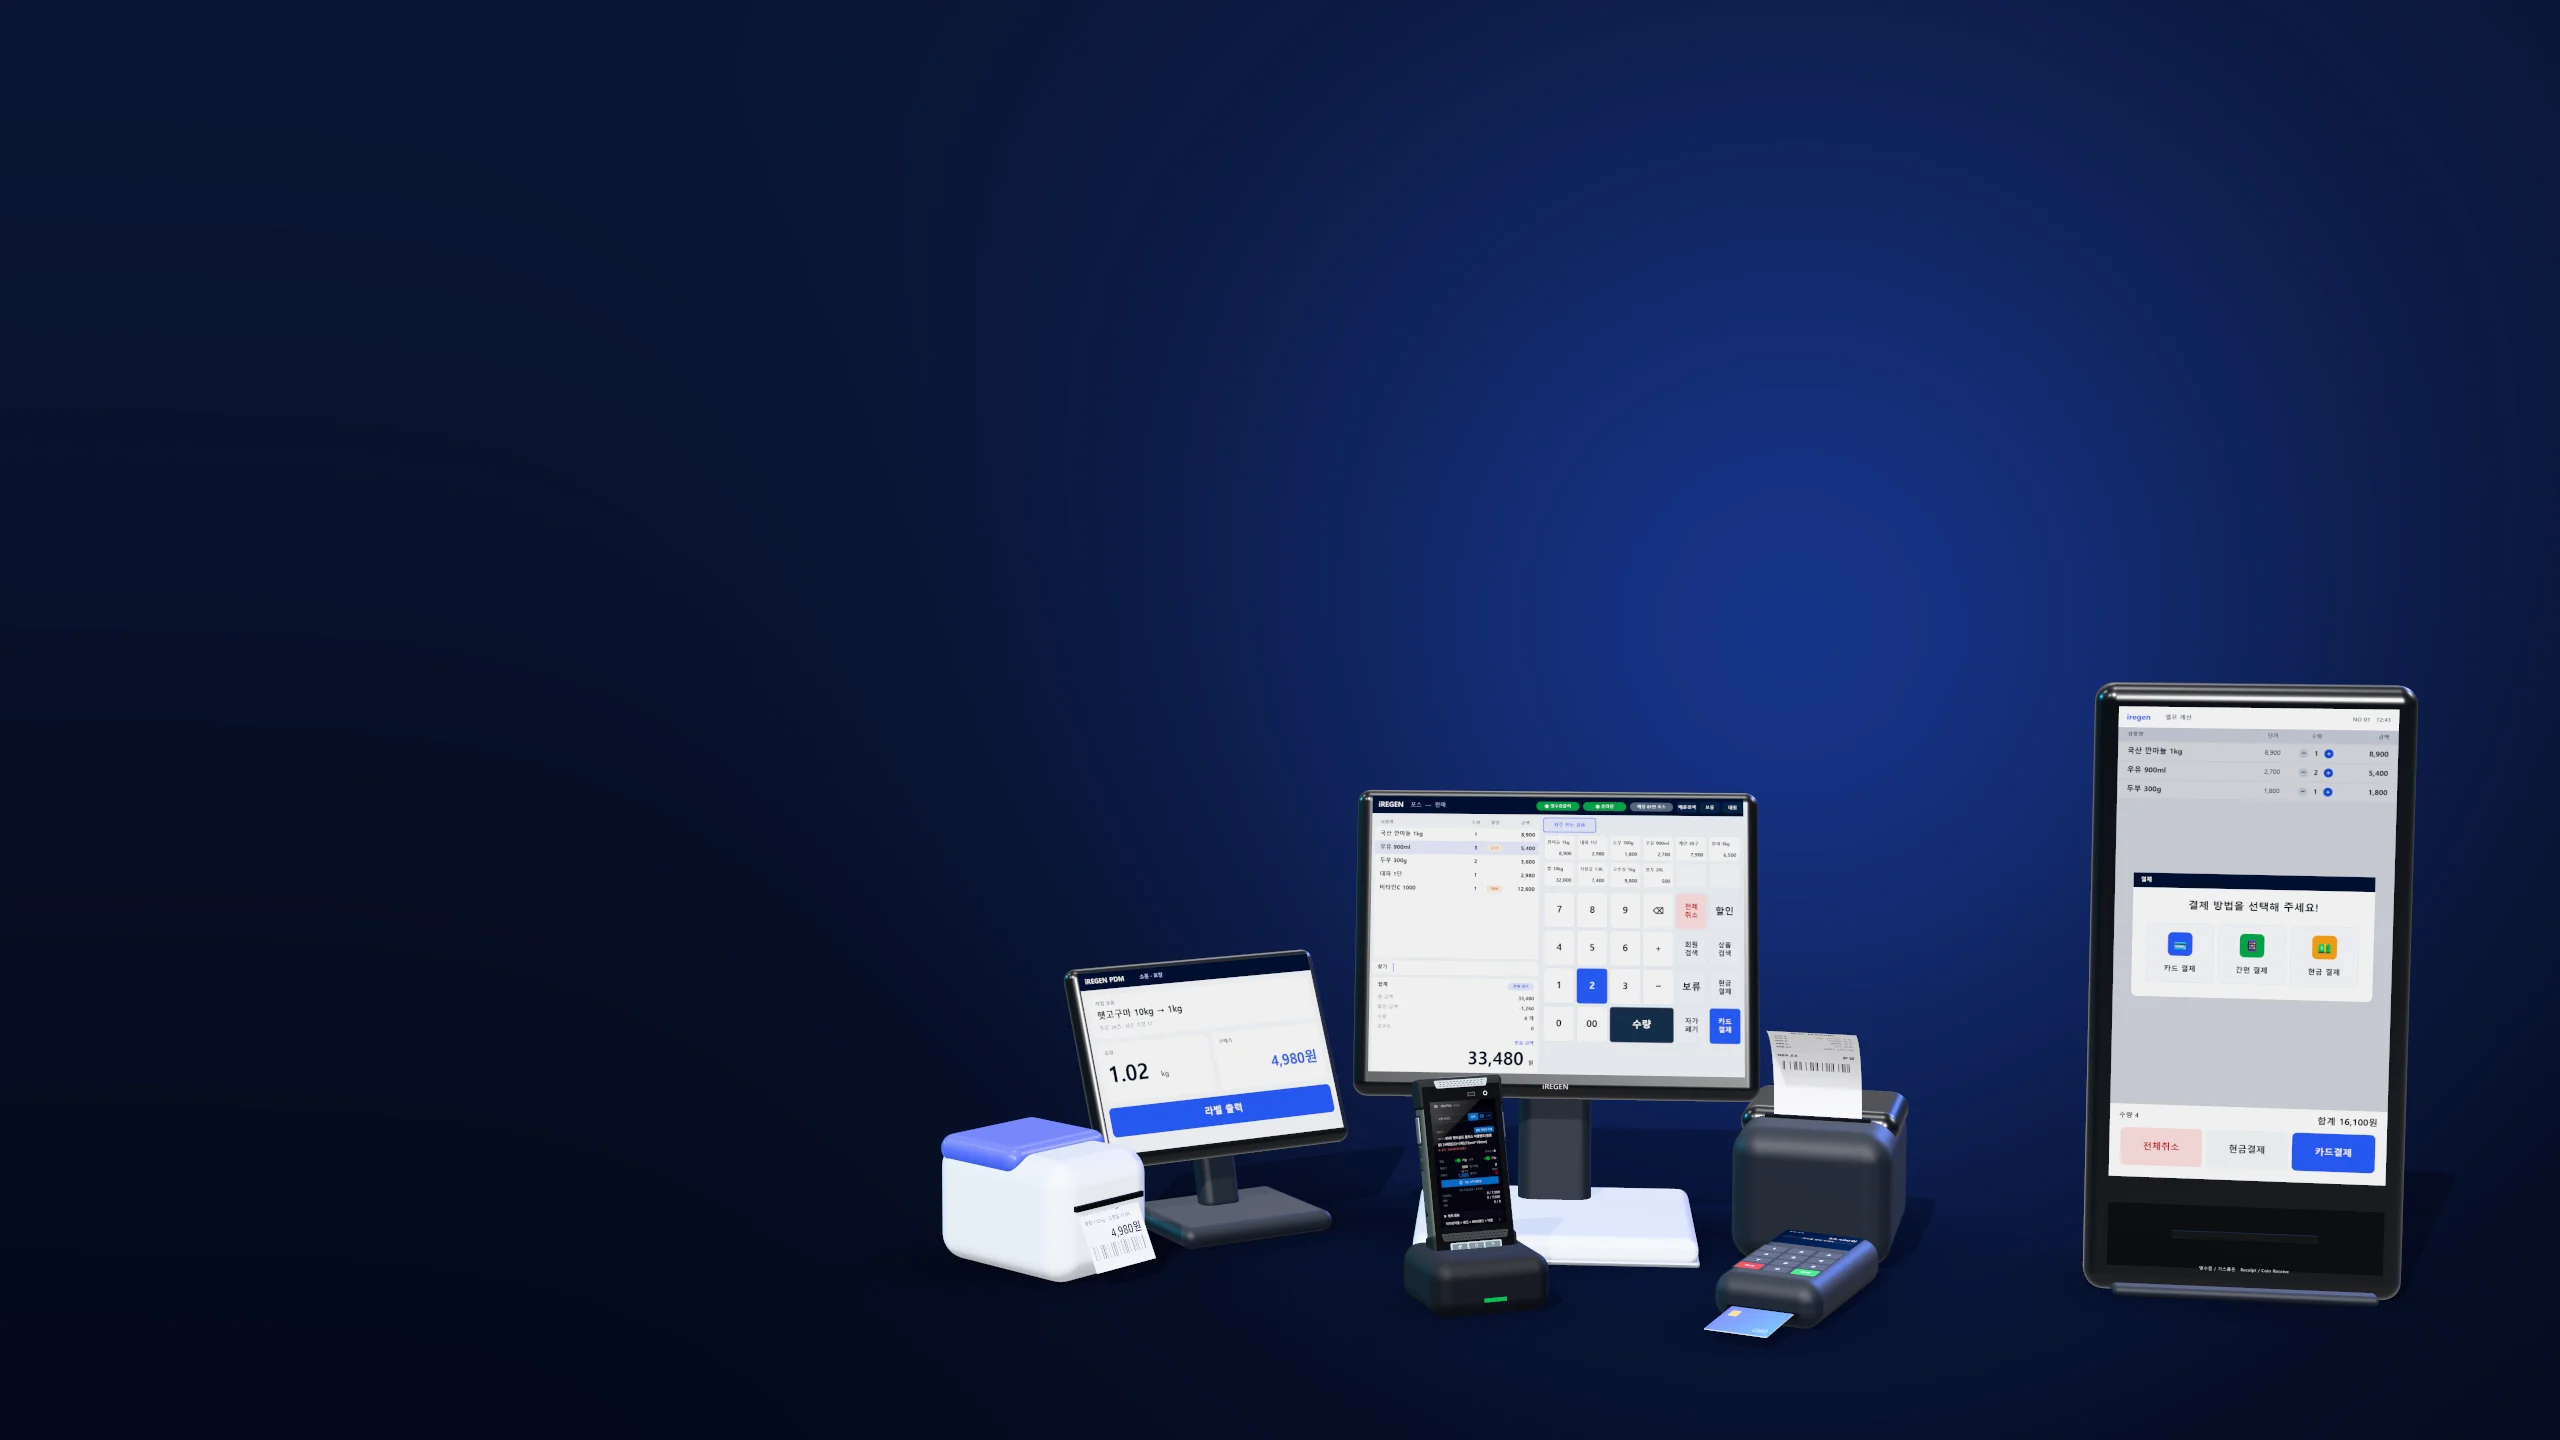
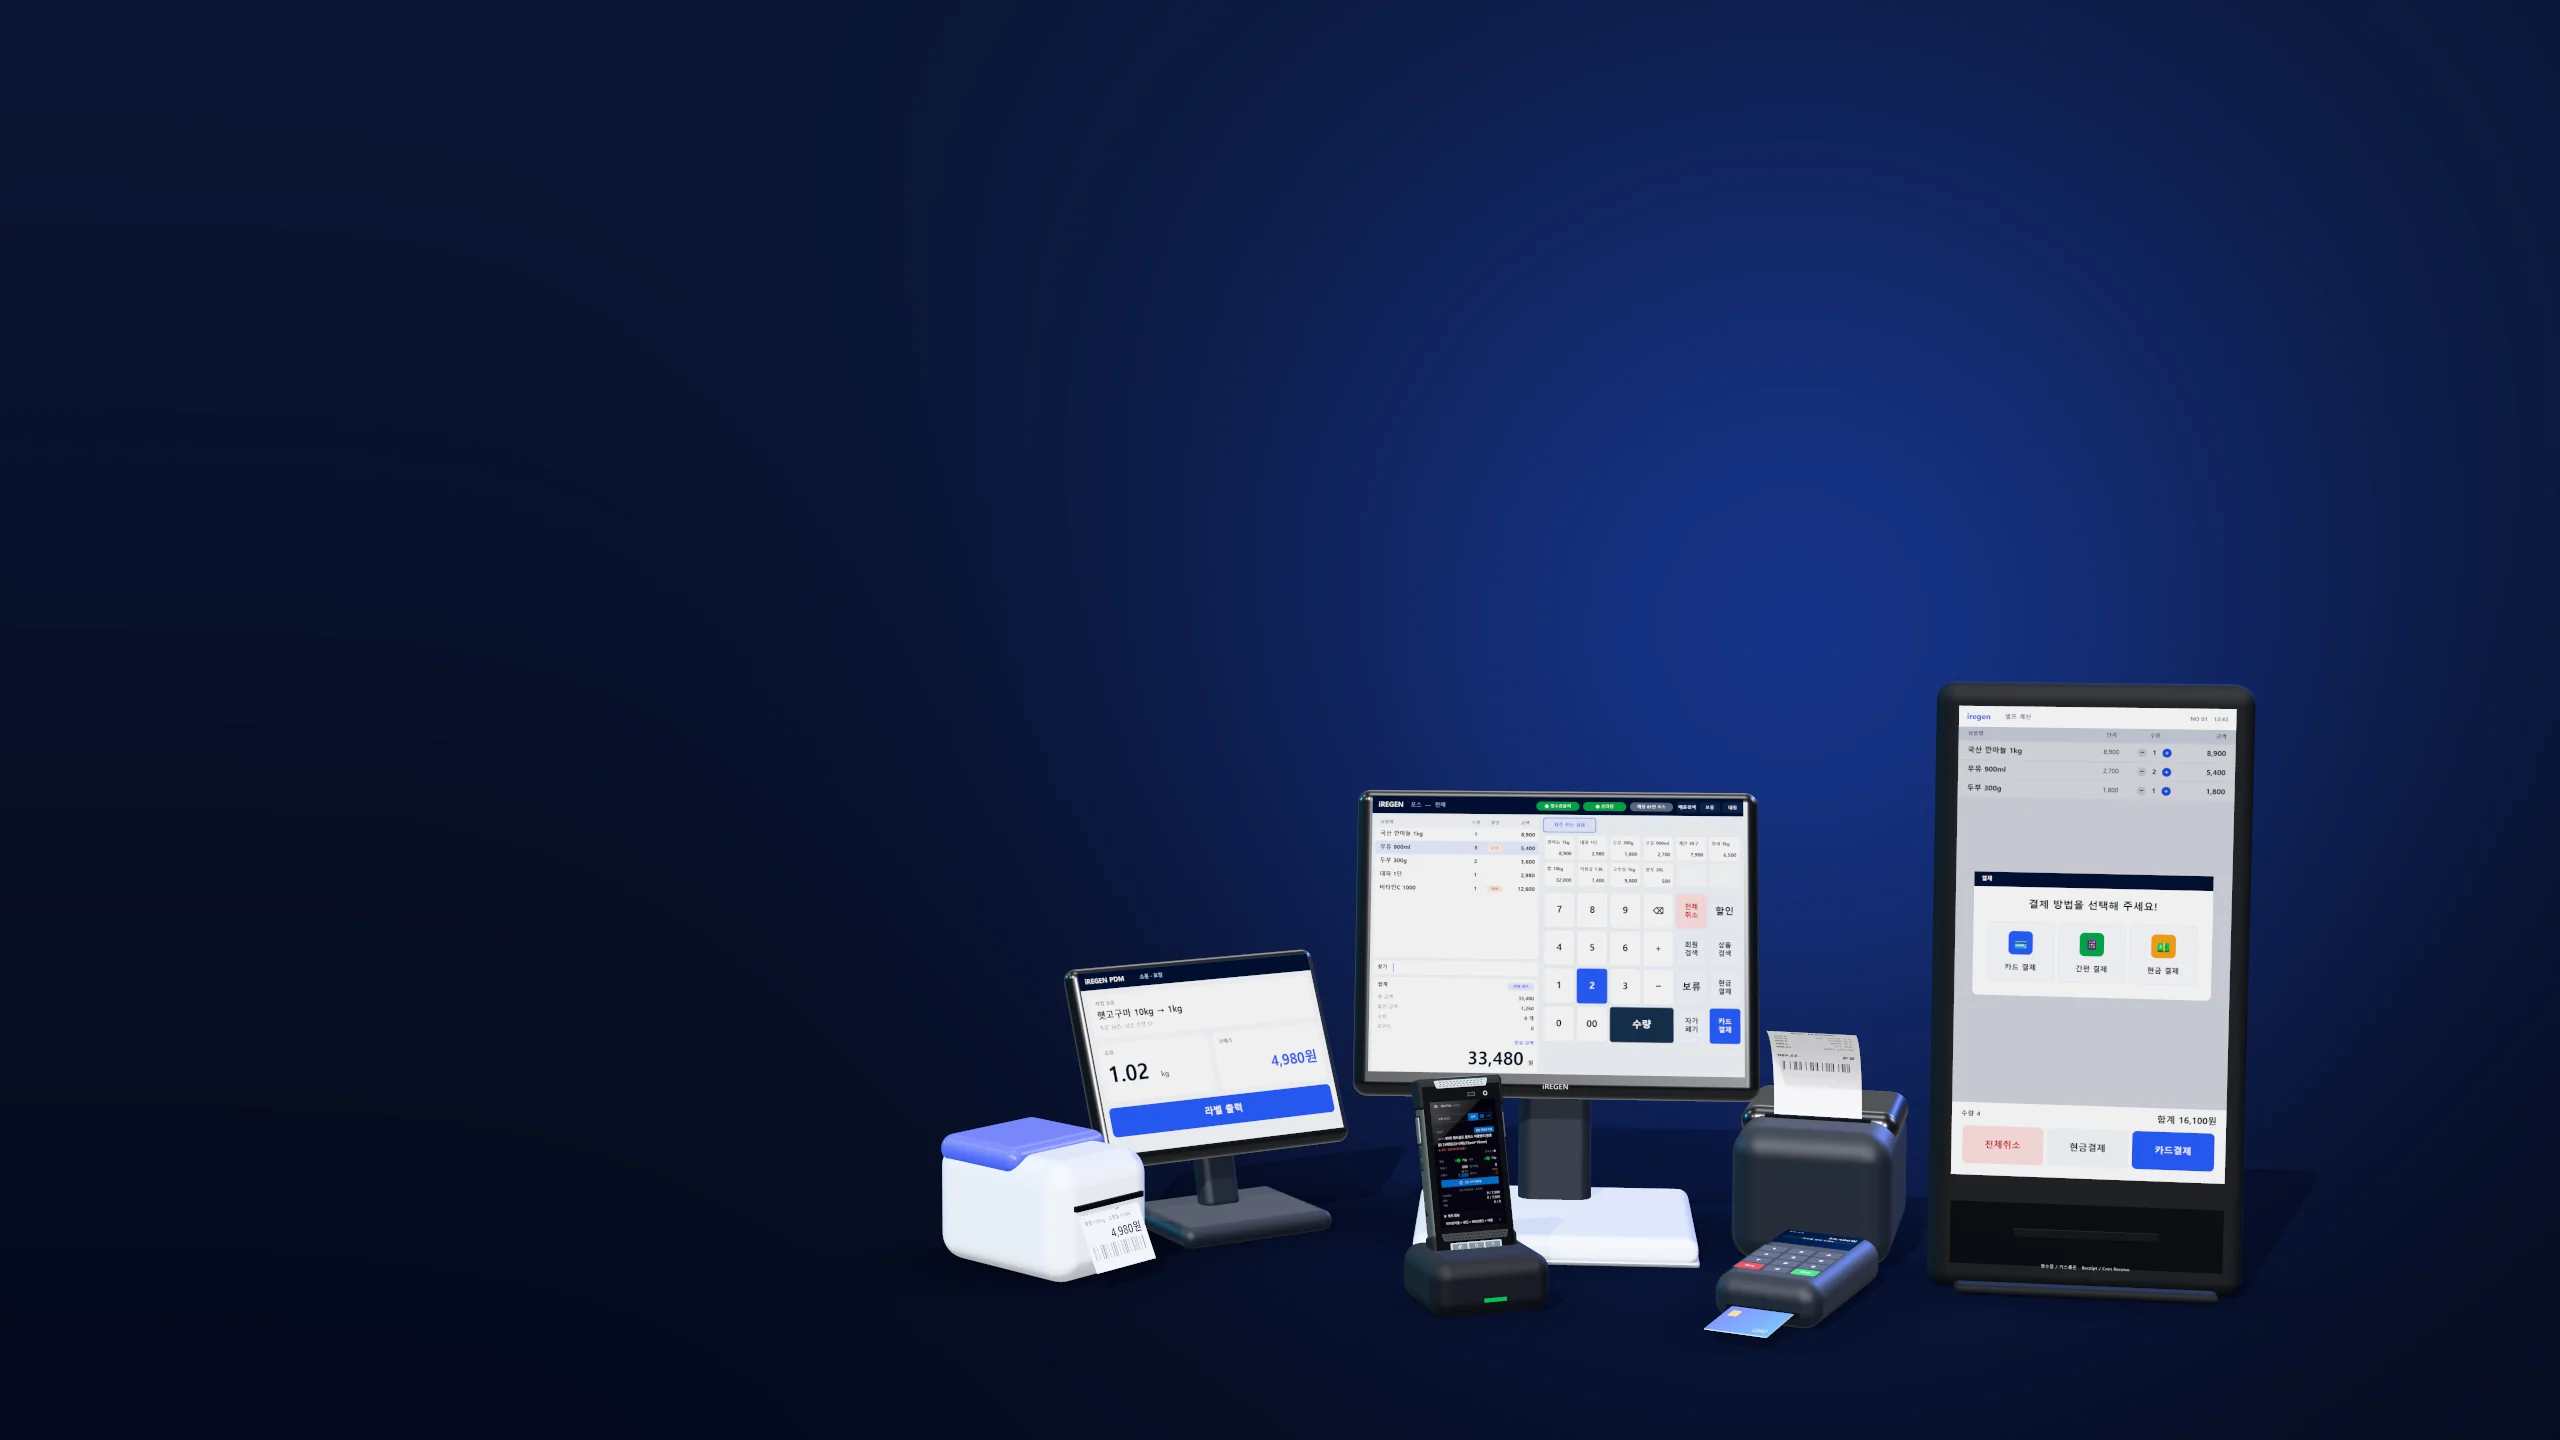
장비 배너: 키오스크를 카드 단말기 옆에 살짝 떨어뜨려 붙임, 키오스크 몸체 무광

Changed region(s): [[0.75, 0.4688, 0.9688, 0.9062]]

diff --git a/index.html b/index.html
@@ -11,7 +11,7 @@
 <link rel="icon" href="assets/img/favicon.svg" type="image/svg+xml">
 <link rel="preconnect" href="https://cdn.jsdelivr.net">
 <link rel="stylesheet" href="https://cdn.jsdelivr.net/gh/orioncactus/pretendard@v1.3.9/dist/web/variable/pretendardvariable-dynamic-subset.min.css">
-<link rel="stylesheet" href="assets/css/style.css?v=12">
+<link rel="stylesheet" href="assets/css/style.css?v=13">
 </head>
 <body>
 <div class="scroll-progress" aria-hidden="true"></div>
@@ -47,7 +47,7 @@
 <main>
 <!-- ============ 히어로 ============ -->
 <section class="hero" aria-label="아이리젠 소개">
-  <div class="hero-photo" aria-hidden="true"><picture><source media="(max-width: 760px)" srcset="assets/img/hero-devices-sm.webp?v=6"><img src="assets/img/hero-devices.webp?v=6" alt="" width="2560" height="1440" decoding="async"></picture></div>
+  <div class="hero-photo" aria-hidden="true"><picture><source media="(max-width: 760px)" srcset="assets/img/hero-devices-sm.webp?v=8"><img src="assets/img/hero-devices.webp?v=8" alt="" width="2560" height="1440" decoding="async"></picture></div>
   <div class="hero-grid" aria-hidden="true"></div>
   <div class="hero-orb o1" aria-hidden="true"></div>
   <div class="hero-orb o2" aria-hidden="true"></div>

diff --git a/assets/css/style.css b/assets/css/style.css
@@ -520,7 +520,7 @@ body.nav-open .mnav { transform: none; }
 @media (max-width: 760px) {
   .container { padding: 0 20px; }
   .hero-photo { background: #08102b; }
-  .hero-photo picture { position: absolute; right: -5%; bottom: 80px; width: 160%; -webkit-mask-image: linear-gradient(180deg, transparent 0%, #000 22%); mask-image: linear-gradient(180deg, transparent 0%, #000 22%); }
+  .hero-photo picture { position: absolute; right: -11%; bottom: 80px; width: 160%; -webkit-mask-image: linear-gradient(180deg, transparent 0%, #000 22%); mask-image: linear-gradient(180deg, transparent 0%, #000 22%); }
   .hero-photo img { height: auto; object-fit: contain; }
   .hero-photo::after { background: linear-gradient(180deg, rgba(5,10,28,.96) 0%, rgba(5,10,28,.8) 42%, rgba(5,10,28,0) 64%); }
   .section { padding: 84px 0; }
